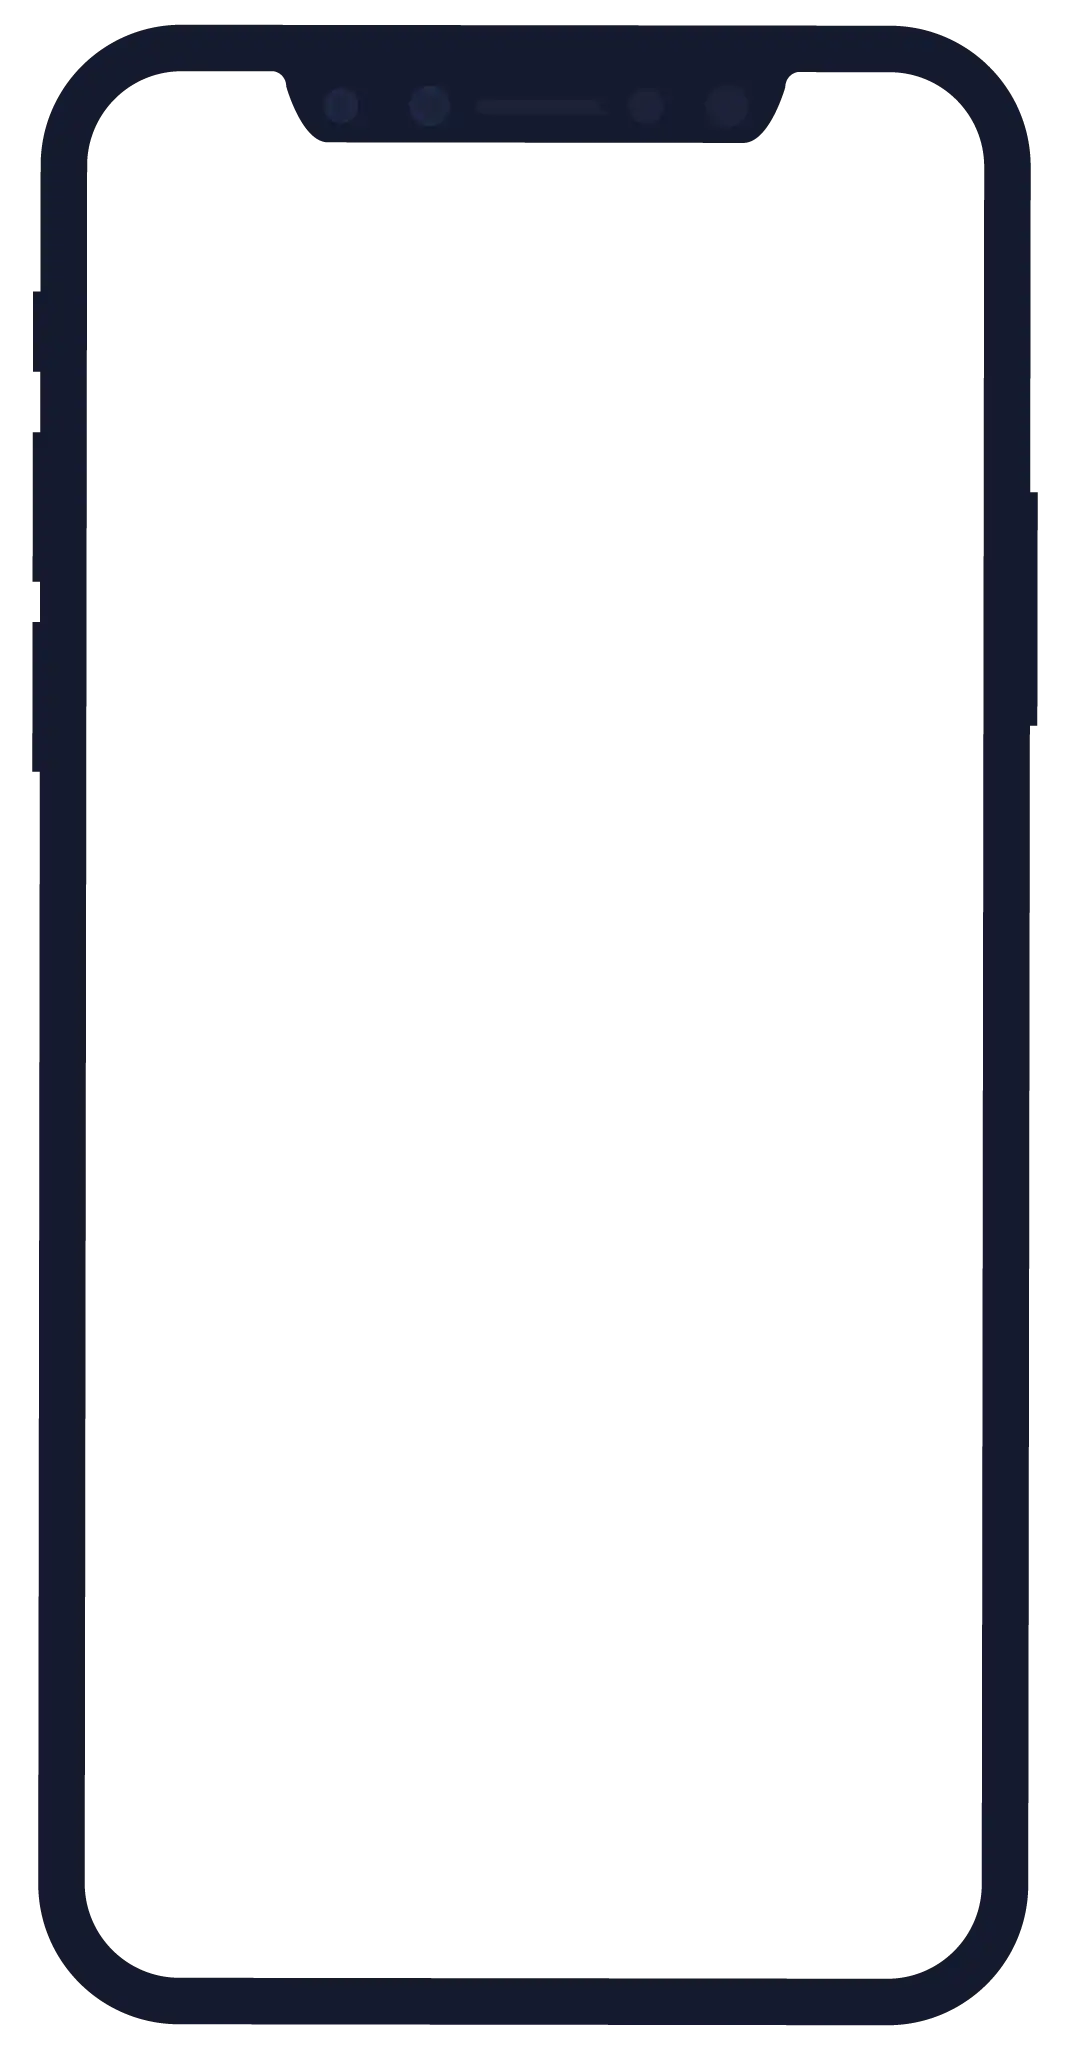
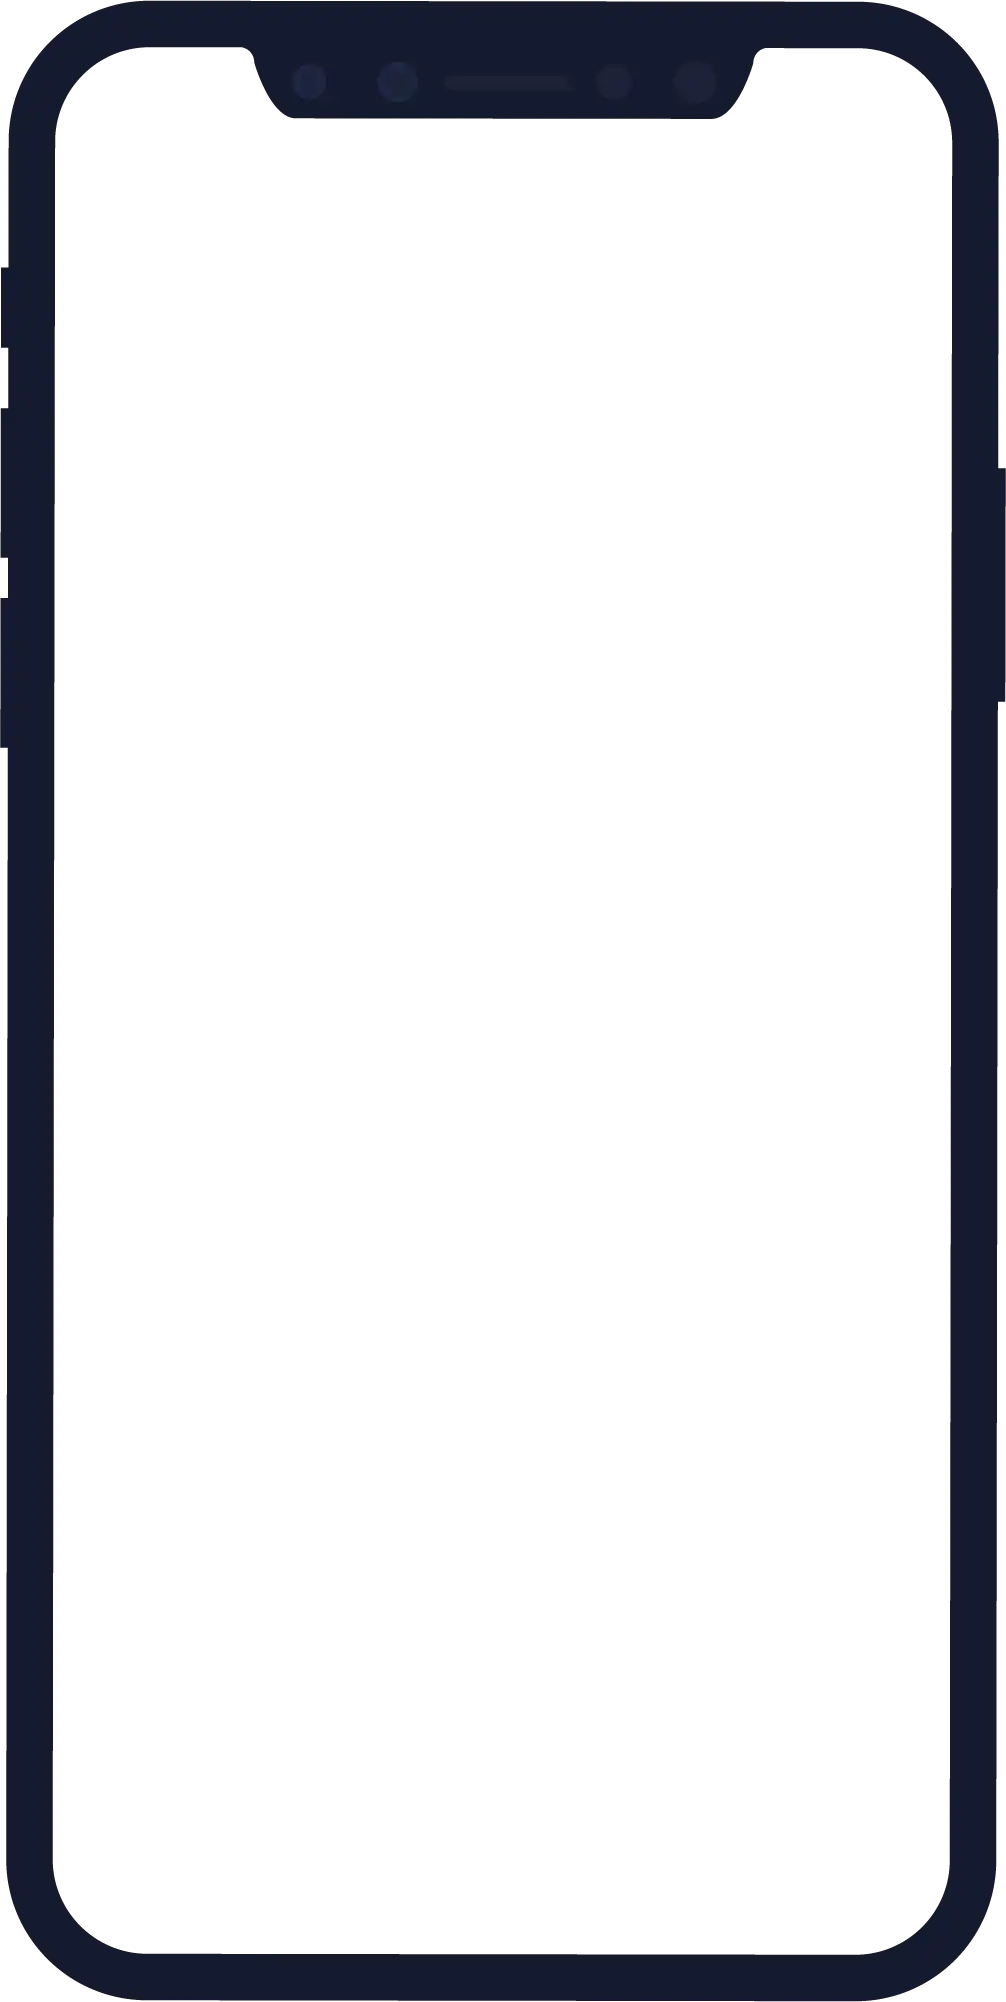
Fixed Phone image (was showing weird shadows/borders)

Changed region(s): [[0.0, 0.0, 1.0, 1.0]]

diff --git a/src/components/sections/MobileShowcase.jsx b/src/components/sections/MobileShowcase.jsx
@@ -73,7 +73,7 @@ const MobileShowcase = () => {
               <img
                 src={Phone}
                 alt="Smartphone mockup"
-                className="w-80 h-auto shadow-professional opacity-80"
+                className="w-80 h-auto opacity-80"
                 style={{
                   filter:
                     'drop-shadow(0 25px 25px rgba(0, 0, 0, 0.15)) drop-shadow(0 10px 10px rgba(0, 0, 0, 0.1))',
@@ -85,7 +85,6 @@ const MobileShowcase = () => {
                   <img
                     src={currentAppImage}
                     alt="App interface"
-                    
                     className="absolute w-[92%] h-[98%] top-[0.3rem] md:h-[97%] object-contain transition-all duration-700 ease-in-out"
                   />
                 </div>
